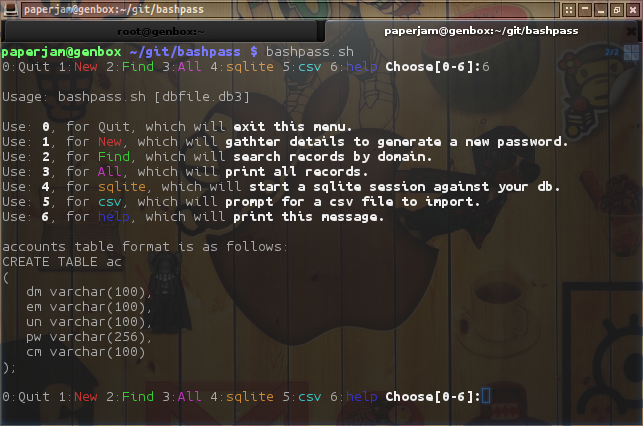
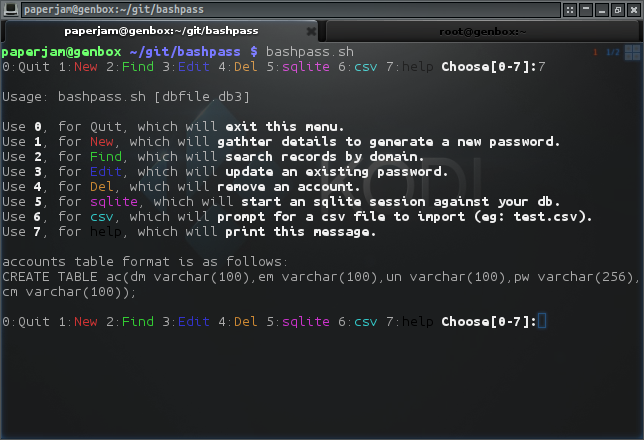
crud

diff --git a/readme.md b/readme.md
@@ -1,11 +1,12 @@
 # <p align="center">bashpass</p>
 <p align="center"><a href="assets/bp.png"><img alt="bashpass" src="assets/bp.png"></a></p>
 
-  password generator, storage, reference for the terminal in fifty(ish) lines.
+  password generator, storage, reference for the terminal.
 
 ## <p align="center">Use case</p>
 
-  1. I can generate passwords
-  2.   \>>  store passwords
-  3.   \>>  recall passwords
-  4.   \>>  import a pre-existing csv password file with domain, email, user_name, password and comment fields.
+  1. I can create passwords
+  2.   \>>  recall passwords
+  3.   \>>  update passwords
+  4.   \>>  delete accounts
+  5.   \>>  import a csv file.
